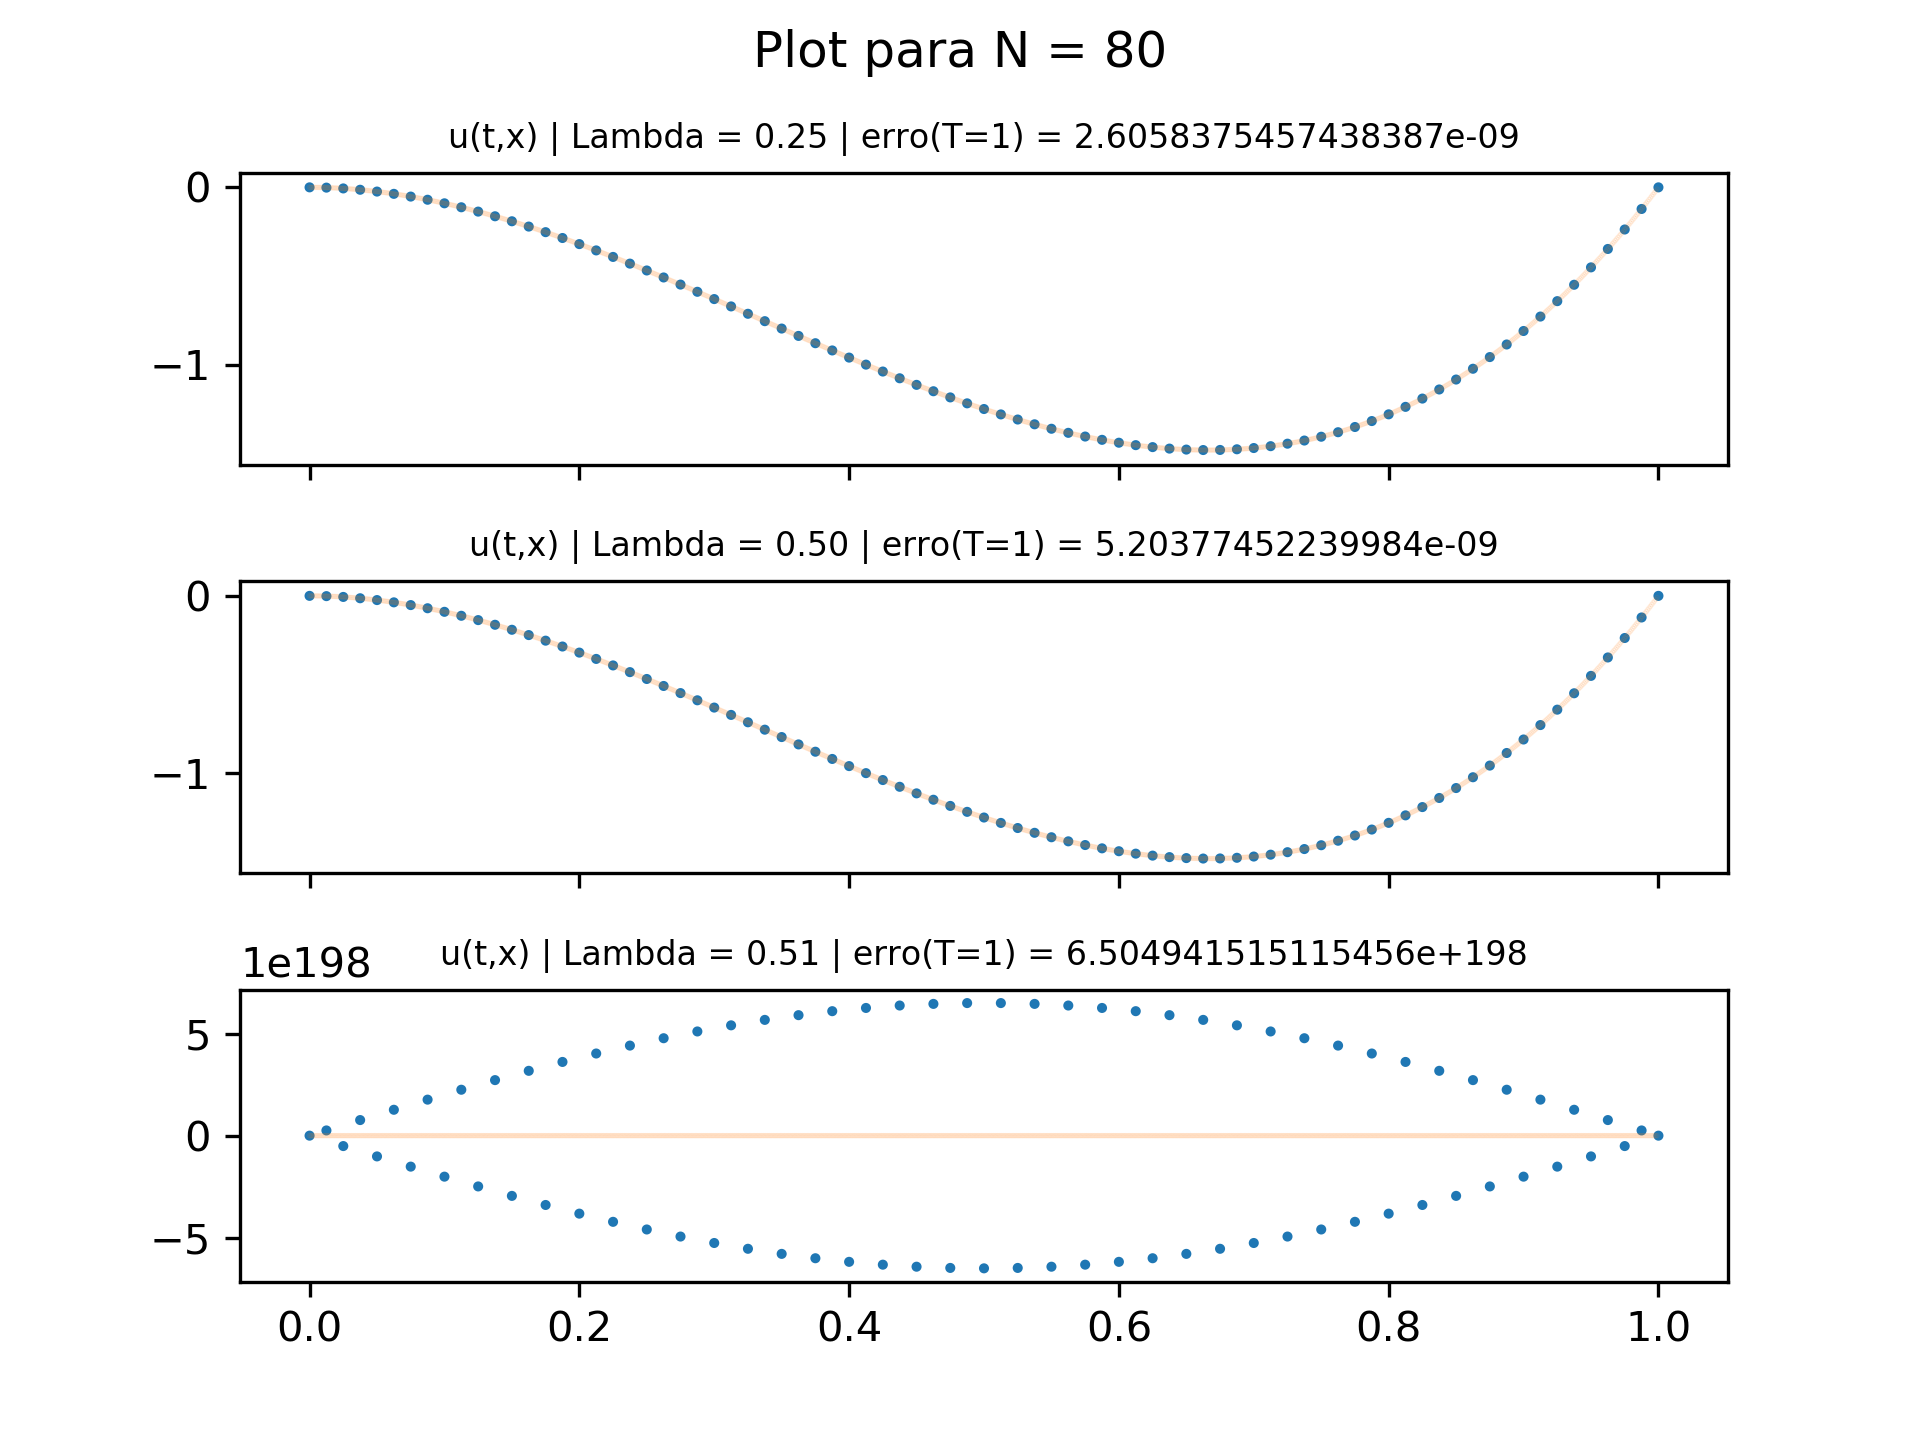
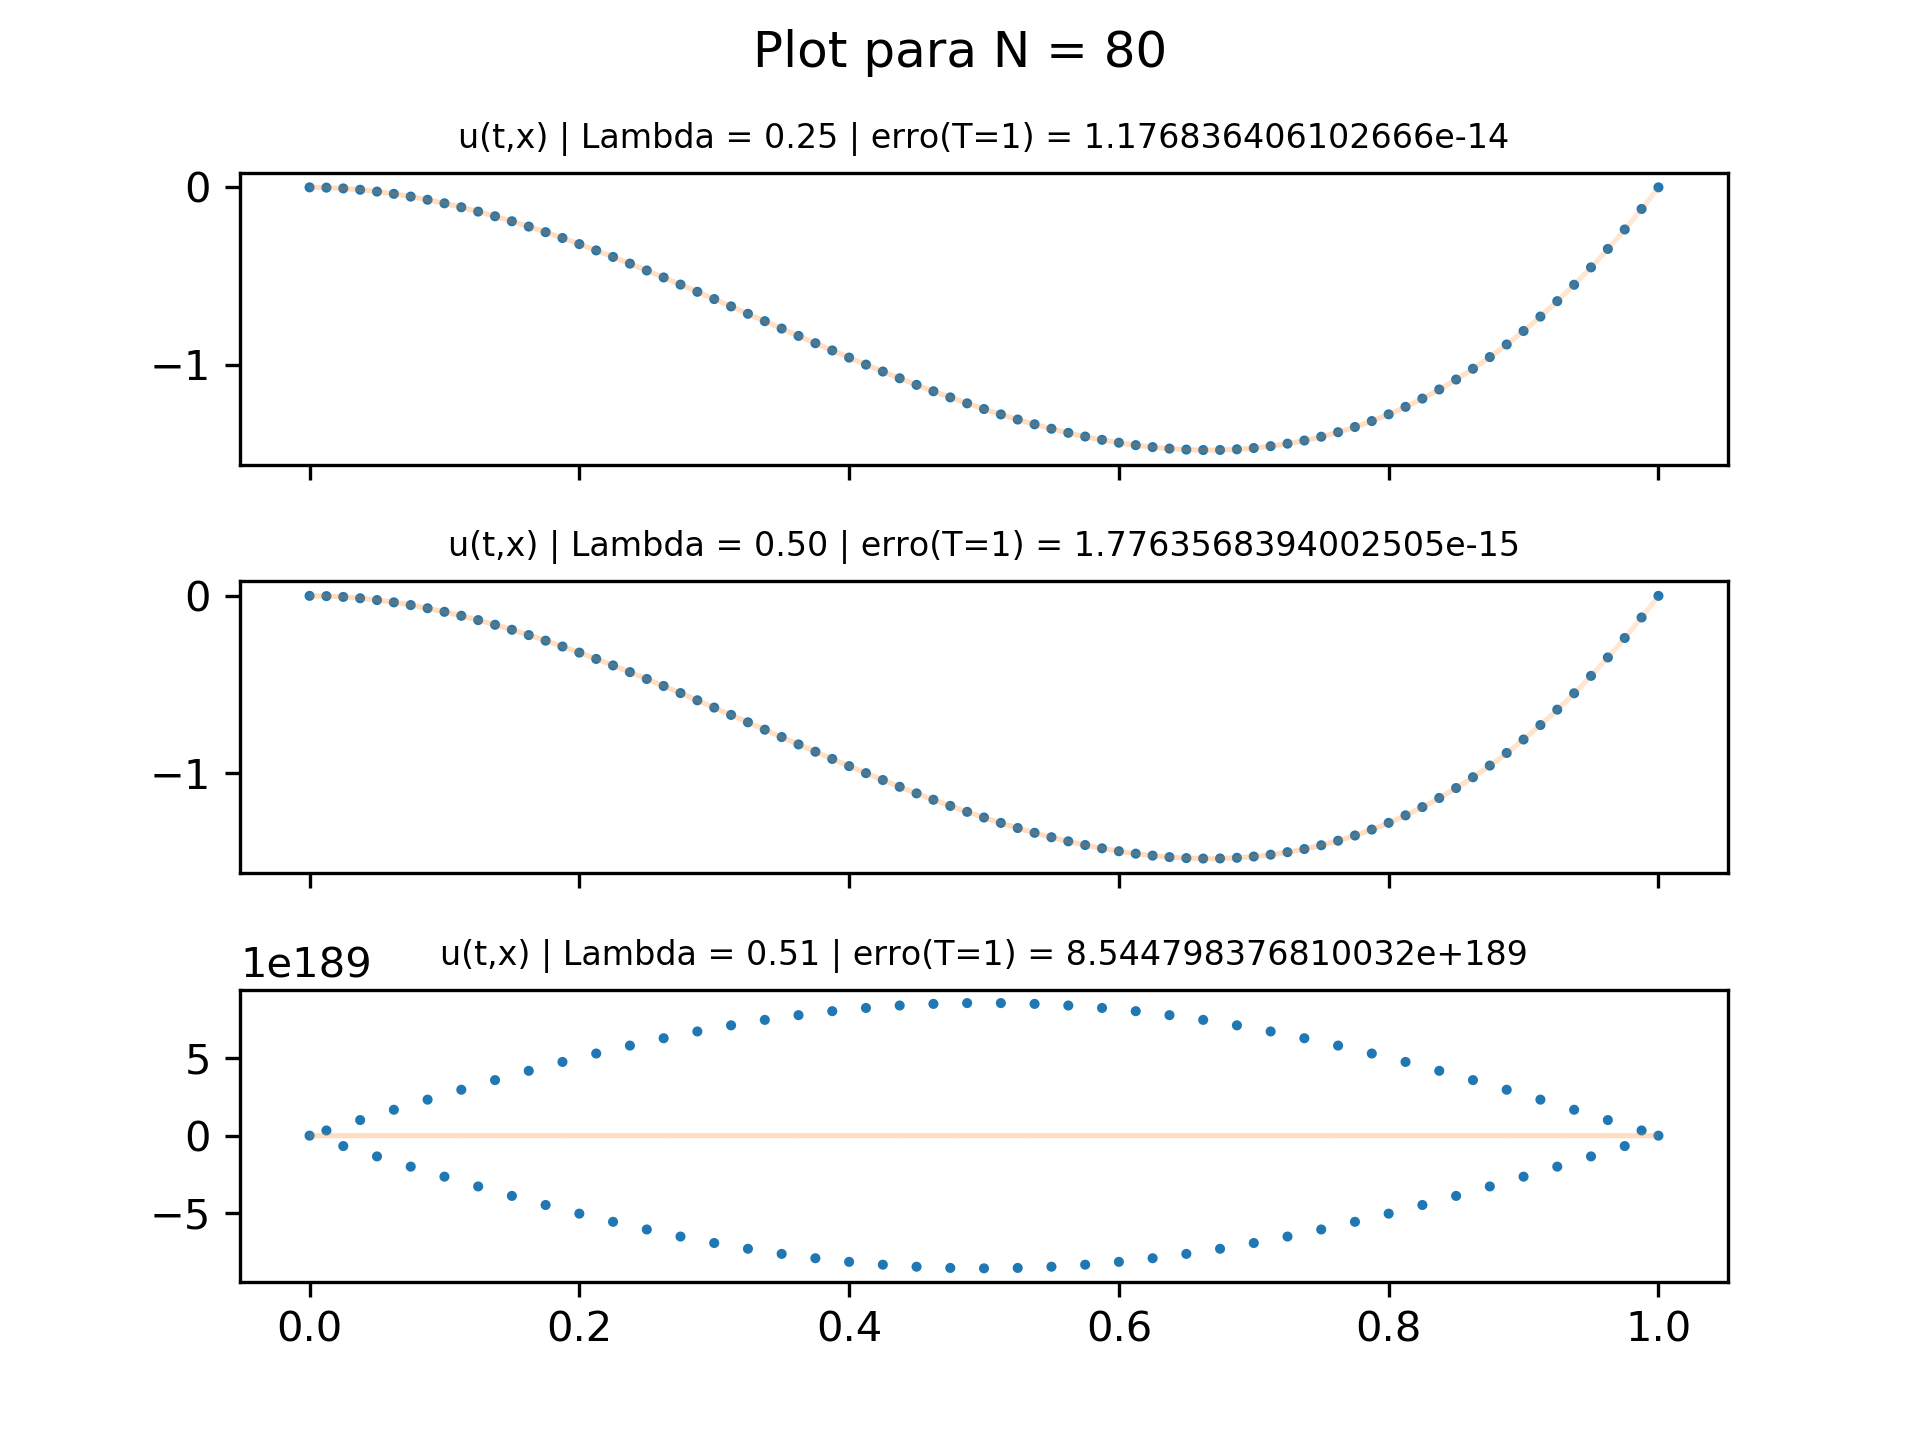
fix ranges add letter c ex 2

diff --git a/Segunda_tarefa/item_c.py b/Segunda_tarefa/item_c.py
@@ -1,19 +1,13 @@
-#!/usr/bin/env python3
 import time
 start_time = time.time()
-import sys
 import numpy as np
 from tqdm import tqdm
-import warnings
-warnings.filterwarnings("ignore")
 import os
+import sys
 
-current_path = os.path.abspath(__file__)
-current_path = current_path.split('/')
-current_path = current_path[:len(current_path) - 1]
-current_path = "/".join(current_path)
+from item_a import decompose_A, calculate_x,calculate_y,calculate_z
 
-def heat_equation(u0, T, N, _f, lamb, g1, g2, _u):
+def heat_equation(_u0, T, N, _f, lamb, _g1, _g2, _u):
     """
     Heat Equation:
         u0: uo(x) - math function
@@ -36,35 +30,50 @@ def heat_equation(u0, T, N, _f, lamb, g1, g2, _u):
     print('-'*15+'Heat Equation in progress'+'-'*15+'\n')
     
     dx = 1/N
-    M = int(T*np.power(N, 2)/lamb)
-    dt = T/M    
-    
+    dt = dx
+    M = int(T/dt)     
+
     # used in u exata
     x_utarget = np.arange(0, 1.0000000001, dx)
     y_utarget = np.array([_u(x_utarget[i]) for i in range(len(x_utarget))])
 
-
     # used in aprox
-    u_old = np.array([u0(i) for i in x_utarget])
-    u_new = np.array([])
+    u_old = np.array([_u0(i) for i in x_utarget])
 
-    erro = []
-    
+    # matrix A
+    A_diag = np.array([(1+lamb) for i in range(N-1)])
+    A_sub = np.array([(-lamb/2) for i in range(N-2)])
+
+    diag_D, sub_L = decompose_A(A_diag,A_sub)
+
+    # Ax = b ou seja A*u_new[1:N-1] = b
     for k in tqdm(range(0, M)):
         # adicionar u(k+1,0) na u_new
-        u_new = np.append(u_new, g1(k*dt))
+        u_new = np.array([_g1(k+1)])
 
-        for i in range(1, N):
-            u_new = np.append(u_new, u_old[i] + dt * ((u_old[i-1] - 2*u_old[i] + u_old[i+1]) / np.power(dx, 2) + _f(k*dt,i*dx)))
+        # create b 
+        b = np.array([u_old[0] + (lamb/2)*(u_old[0] + 2*u_old[1] + u_old[2]) + (dt/2)*(_f(dt*(k+1),dx*0) + _f(dt*k,dx*0)) + (lamb/2)*_g1(k+1)])
+        for i in range(2, N-1 ):
+            b = np.append(b, u_old[i] + (lamb/2)*(u_old[i-1] + 2*u_old[i] + u_old[i+1]) + (dt/2)*(_f(dt*(k+1),dx*i) + _f(dt*k,dx*i)))
+        b = np.append(b, u_old[N-1] + (lamb/2)*(u_old[N-2] + 2*u_old[N-1] + u_old[N]) + (dt/2)*(_f(dt*(k+1),dx*(N-1)) + _f(dt*k,dx*(N-1))) + (lamb/2)*+_g2(k+1))
+
+        # find x
+        y = calculate_y(sub_L,b)
+        z = calculate_z(diag_D,y)
+        x = calculate_x(sub_L,z)
+
+        for x_element in x:
+            u_new = np.append(u_new, x_element)
         
         # adicionar u(k+1,N) na u_new
-        u_new = np.append(u_new, g2(k*dt))
+        u_new = np.append(u_new, _g2(k+1))
+        """ print(u_new) """
         
         u_old = u_new.copy()
-        u_new = []
-        
-        # calcular o erro
-        erro = np.max(abs(y_utarget-u_old))
+        # print(u_old)
+
+    # calcular o erro
+    erro = np.max(abs(y_utarget-u_old))
         
     print('-'*15+'Heat Equation done'+'-'*15+'\n')
     return u_old, erro
@@ -76,12 +85,11 @@ def plot(us, _u, erro):
         _u: array - y_utarget
         erro: list of floats
 
-    Save figures at figuras_b
-    """
+    Save figures at figuras_a
+    """ 
     import matplotlib.pyplot as plt
     import matplotlib as mpl
     mpl.rcParams['lines.linewidth'] = 0.1
-    
     
     fig, axs = plt.subplots(3)
     fig.suptitle('Plot para N = ' + str(len(us[0])-1))
@@ -132,54 +140,53 @@ def plot(us, _u, erro):
 
     # save image as png
     if sys.platform.startswith('win32') or sys.platform.startswith('cygwin'):
-        fig.savefig(r"Primeira_tarefa\figuras_b\Figure of n = {}.png".format(len(us[0])-1), dpi=300)
+        fig.savefig(r"Segunda_tarefa\figuras_c\Figure of n = {}.png".format(len(us[0])-1), dpi=300)
     elif sys.platform.startswith('darwin') or sys.platform.startswith('linux'):
-        fig.savefig(current_path + "/figuras_b" +"/Figure of n = {}.png".format(len(us[0])-1), dpi=300)
+        fig.savefig(current_path + "/figuras_c" +"/Figure of n = {}.png".format(len(us[0])-1), dpi=300)
     else:
         print('--- AIX: saving fig at current directory ---')
         fig.savefig("letra_b_figure of n = {}.png".format(len(us[0])-1), dpi=300)
 
 def main():
+    T = 1
+    lamb_list = np.array([0.25, 0.5, 0.51])
     
     def _u0(x):
         "Distribuição inicial."
-        return np.exp(-x)
+        return 0
     
     def _g1(t):
         "Condição de fronteira x = 0."
-        return np.exp(t)
+        return 0
     
     def _g2(t):
         "Condição de fronteira x = 1."
-        return np.exp(t-1)*np.cos(5*t)
-    
-    def _f(t, x):
-        "Descrição da fonte de calor ao longo do tempo"
-        return np.exp(t-x)*5*(5*np.power(t,2)*np.cos(5*t*x) - (x + 2*t)*np.sin(5*t*x))
-        
-    T = 1
-    lamb_list = np.array([0.25 , 0.5 , 0.51])
+        return 0
     
     try:
         N = int(input("Type N: "))
     except:
         print("Wrong type! N must be an integer!")
         N = int(input("Type N: "))
-        
+
+    def _f(t, x):
+        "Descrição da fonte de calor ao longo do tempo"
+        return 10*(np.power(x, 2))*(x - 1) - 60*x*t + 20*t 
+    
+    #solucao exata que precisamos nos aproximar:
     def _u(x):
-        "Target solution."
-        return np.exp(T-x)*np.cos(5*T*x)    
+        "Target solution"
+        return 10*T*(np.power(x, 2))*(x - 1)   
 
     us = []
     erros = []
-    
+
     for lamb in lamb_list:
         u_old, erro = heat_equation(_u0, T, N, _f, lamb, _g1, _g2, _u)
         us.append(u_old)
         
         erros.append(erro)
-        
-    print('Erro: \n\n', erros, '\n\n')    
+    
     plot(us, _u, erros)
     print("--- %s seconds ---"%round(time.time() - start_time, 4))
 

diff --git a/Segunda_tarefa/item_b.py b/Segunda_tarefa/item_b.py
@@ -12,7 +12,7 @@ current_path = current_path.split('/')
 current_path = current_path[:len(current_path) - 1]
 current_path = "/".join(current_path)
 
-def heat_equation(u0, T, N, _f, lamb, g1, g2, _u):
+def heat_equation(_u0, T, N, _f, lamb, _g1, _g2, _u):
     """
     Heat Equation:
         u0: uo(x) - math function
@@ -43,7 +43,7 @@ def heat_equation(u0, T, N, _f, lamb, g1, g2, _u):
     y_utarget = np.array([_u(x_utarget[i]) for i in range(len(x_utarget))])
 
     # used in aprox
-    u_old = np.array([u0 for i in x_utarget])
+    u_old = np.array([_u0(i) for i in x_utarget])
 
     # matrix A
     A_diag = np.array([(1+2*lamb) for i in range(N-1)])
@@ -52,15 +52,15 @@ def heat_equation(u0, T, N, _f, lamb, g1, g2, _u):
     diag_D, sub_L = decompose_A(A_diag,A_sub)
 
     # Ax = b ou seja A*u_new[1:N-1] = b
-    for k in tqdm(range(1, M)):
+    for k in tqdm(range(0, M)):
         # adicionar u(k+1,0) na u_new
-        u_new = np.array([g1])
+        u_new = np.array([_g1(0)])
 
         # create b 
         b = np.array([])
         for i in range(1, N):
             # it is possible to do everything in a loop cause g1=g2=0
-            b = np.append(b, u_old[i] + dt*_f(dt*k,dx*i))
+            b = np.append(b, u_old[i] + dt*_f(dt*(k+1),dx*i))
 
         # find x
         y = calculate_y(sub_L,b)
@@ -71,10 +71,11 @@ def heat_equation(u0, T, N, _f, lamb, g1, g2, _u):
             u_new = np.append(u_new, x_element)
         
         # adicionar u(k+1,N) na u_new
-        u_new = np.append(u_new, g2)
-        print(u_new)
+        u_new = np.append(u_new, _g2(0))
+        """ print(u_new) """
         
         u_old = u_new.copy()
+        print(u_old)
 
     # calcular o erro
     erro = np.max(abs(y_utarget-u_old))
@@ -153,14 +154,19 @@ def plot(us, _u, erro):
 
 def main():
     T = 1
-    lamb_list = np.array([0.25 , 0.5 , 0.51])
+    lamb_list = np.array([0.25, 0.5, 0.51])
     
-    # u(0, x) = u0(x) em [0, 1]
-    u0 = 0
-
-    # condições de fronteira nulas
-    g1 = 0
-    g2 = 0
+    def _u0(x):
+        "Distribuição inicial."
+        return 0
+    
+    def _g1(t):
+        "Condição de fronteira x = 0."
+        return 0
+    
+    def _g2(t):
+        "Condição de fronteira x = 1."
+        return 0
     
     try:
         N = int(input("Type N: "))
@@ -181,7 +187,7 @@ def main():
     erros = []
 
     for lamb in lamb_list:
-        u_old, erro = heat_equation(u0, T, N, _f, lamb, g1, g2, _u)
+        u_old, erro = heat_equation(_u0, T, N, _f, lamb, _g1, _g2, _u)
         us.append(u_old)
         
         erros.append(erro)
@@ -190,3 +196,76 @@ def main():
     print("--- %s seconds ---"%round(time.time() - start_time, 4))
 
 main()
+
+
+
+def heat_equation_Joker(u0, T, N, _f, lamb, g1, g2, _u):
+    """
+    Heat Equation:
+        u0: uo(x) - math function
+        N: int (input)
+        M: int (input)
+        T: float
+        i = 1, ..., N-1
+        k = 0, ..., M-1
+        f: math function - f(t,x)
+        u: Heat Equation - u(t, x)
+        xi = i∆x, i = 0, · · · , N, com ∆x = 1/N. Para a discretização temporal definimos ∆t = T /M, e
+        calculamos aproximações nos instantes tk = k∆t, k = 1, · · · , M. 
+        A variável u(t, x) descreve a temperatura no instante t na posição x, sendo a distribuição inicial u0(x) dada
+
+    return: 
+        u_old: array
+        erro: list
+    """
+    
+    print('-'*15+'Heat Equation in progress'+'-'*15+'\n')
+    
+    dx = 1/N
+    dt = dx
+    M = int(T/dt)     
+
+    # used in u exata
+    x_utarget = np.arange(0, 1.0000000001, dx)
+    y_utarget = np.array([_u(x_utarget[i]) for i in range(len(x_utarget))])
+
+    # used in aprox
+    u_old = np.array([u0 for i in x_utarget])
+
+    # matrix A
+    A_diag = np.array([(1+lamb) for i in range(N-1)])
+    A_sub = np.array([(-lamb/2) for i in range(N-2)])
+
+    diag_D, sub_L = decompose_A(A_diag,A_sub)
+
+    # Ax = b ou seja A*u_new[1:N-1] = b
+    for k in tqdm(range(0, M)):
+        # adicionar u(k+1,0) na u_new
+        u_new = np.array([g1(k+1)])
+
+        # create b 
+        b = np.array([u_old[0] + (lamb/2)*(u_old[0] + 2*u_old[1] + u_old[2]) + (dt/2)*(_f(dt*(k+1),dx*0) + _f(dt*k,dx*0)) + (lamb/2)*g1(k+1)])
+        for i in range(2, N-1 ):
+            b = np.append(b, u_old[i] + (lamb/2)*(u_old[i-1] + 2*u_old[i] + u_old[i+1]) + (dt/2)*(_f(dt*(k+1),dx*i) + _f(dt*k,dx*i)))
+        b = np.append(u_old[N-1] + (lamb/2)*(u_old[N-2] + 2*u_old[N-1] + u_old[N]) + (dt/2)*(_f(dt*(k+1),dx*(N-1)) + _f(dt*k,dx*(N-1))) + (lamb/2)*g2(k+1))
+
+        # find x1
+        y = calculate_y(sub_L,b)
+        z = calculate_z(diag_D,y)
+        x = calculate_x(sub_L,z)
+
+        for x_element in x:
+            u_new = np.append(u_new, x_element)
+        
+        # adicionar u(k+1,N) na u_new
+        u_new = np.append(u_new, g2(k+1))
+        """ print(u_new) """
+        
+        u_old = u_new.copy()
+        print(u_old)
+
+    # calcular o erro
+    erro = np.max(abs(y_utarget-u_old))
+        
+    print('-'*15+'Heat Equation done'+'-'*15+'\n')
+    return u_old, erro

diff --git a/Segunda_tarefa/item_a.py b/Segunda_tarefa/item_a.py
@@ -91,6 +91,7 @@ def teste4():
         [0,5,28,6],
         [0,0,6,16],
     ]
+
     b=[
        5677.75,
        11477.3,
@@ -101,8 +102,6 @@ def teste4():
     diag_D, sub_L = decompose_A([32.5,131,28,16],[65,5,6])
     # Ly = b, Dz = y e L*x = z
     y = calculate_y(sub_L,b)
-    
-
     z = calculate_z(diag_D,y)
     x = calculate_x(sub_L,z)
 

diff --git a/Primeira_tarefa/letra_c.py b/Primeira_tarefa/letra_c.py
@@ -46,7 +46,7 @@ def heat_equation(T, N, _f, lamb):
     u_interval = np.array([u_old])
     list_times = [i for i in range(0, M +1 ,M//10)]
     
-    for k in tqdm(range(1, M)):
+    for k in tqdm(range(0, M)):
 
         # adicionar u(k+1,0) = 0 na u_new 
         u_new = np.append(u_new, 0)

diff --git a/Primeira_tarefa/letra_a.py b/Primeira_tarefa/letra_a.py
@@ -47,7 +47,7 @@ def heat_equation(u0, T, N, _f, lamb, g1, g2, _u):
     u_old = np.array([u0 for i in x_utarget])
     u_new = np.array([])
     
-    for k in tqdm(range(1, M)):
+    for k in tqdm(range(0, M)):
         # adicionar u(k+1,0) na u_new
         u_new = np.array([g1])
 
